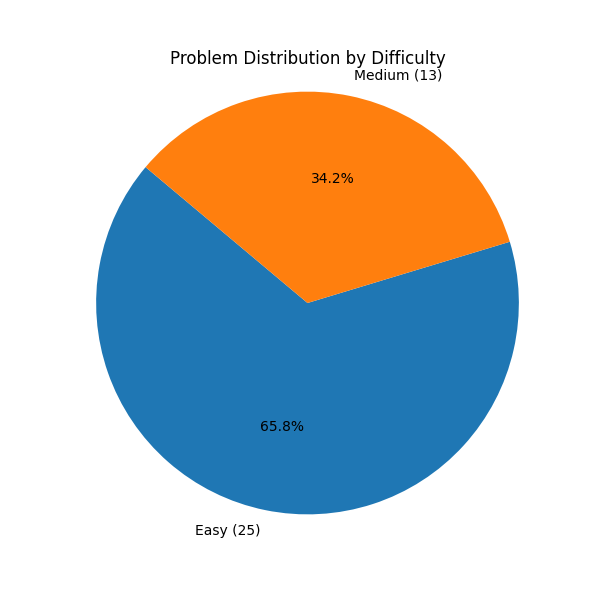
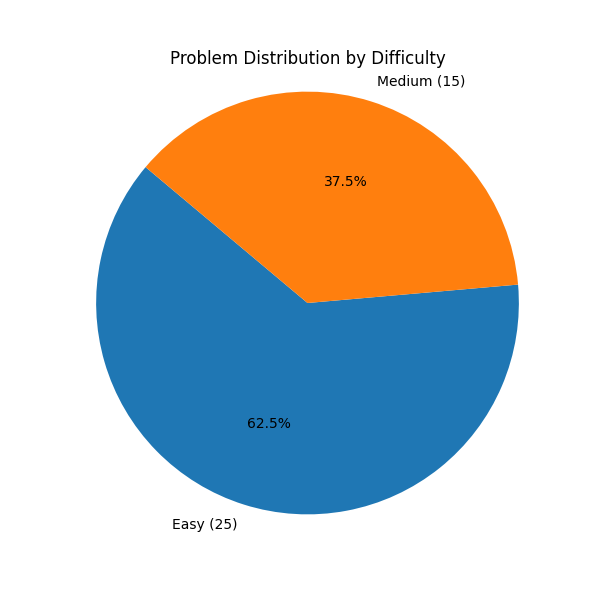
Maximum-subarray

diff --git a/medium/53-maximum-subarray/solution/Solution.java b/medium/53-maximum-subarray/solution/Solution.java
@@ -1,0 +1,25 @@
+class Solution {
+    public int maxSubArray(int[] nums) {
+        // Brute-Force Solution O(N^2);
+        // int maxSum = nums[0];
+
+        // for(int i = 0; i < nums.length; i++){
+        //     int curSum = 0;
+        //     for(int j = i; j < nums.length; j++){
+        //         curSum += nums[j];
+        //         maxSum = Math.max(maxSum, curSum);
+        //     }
+        // }
+        // return maxSum;
+
+        // Kadane's Algorithm O(n)
+        int maxSum = nums[0];
+        int curSum = 0;
+
+        for(int n: nums){
+            curSum = Math.max(curSum , 0) + n;
+            maxSum = Math.max(curSum, maxSum);
+        }
+        return maxSum;
+    }
+}

diff --git a/medium/53-maximum-subarray/solution/solution.py b/medium/53-maximum-subarray/solution/solution.py
@@ -1,0 +1,3 @@
+class Solution:
+    def method_name(self, *args):
+        pass

diff --git a/medium/53-maximum-subarray/README.md b/medium/53-maximum-subarray/README.md
@@ -1,0 +1,98 @@
+# 53. Maximum Subarray
+
+**Difficulty:** Medium  
+**Link:** [https://leetcode.com/problems/maximum-subarray/](https://leetcode.com/problems/maximum-subarray/)
+
+## Problem Description
+
+Given an integer array 
+nums
+, find the 
+subarray
+ with the largest sum, and return 
+its sum
+.
+
+
+ 
+
+
+Example 1:
+
+
+
+
+Input:
+ nums = [-2,1,-3,4,-1,2,1,-5,4]
+
+Output:
+ 6
+
+Explanation:
+ The subarray [4,-1,2,1] has the largest sum 6.
+
+
+
+Example 2:
+
+
+
+
+Input:
+ nums = [1]
+
+Output:
+ 1
+
+Explanation:
+ The subarray [1] has the largest sum 1.
+
+
+
+Example 3:
+
+
+
+
+Input:
+ nums = [5,4,-1,7,8]
+
+Output:
+ 23
+
+Explanation:
+ The subarray [5,4,-1,7,8] has the largest sum 23.
+
+
+
+ 
+
+
+Constraints:
+
+
+
+
+1 <= nums.length <= 10
+5
+
+
+-10
+4
+ <= nums[i] <= 10
+4
+
+
+
+
+ 
+
+
+Follow up:
+ If you have figured out the 
+O(n)
+ solution, try coding another solution using the 
+divide and conquer
+ approach, which is more subtle.
+
+

diff --git a/README.md b/README.md
@@ -25,6 +25,8 @@ My solutions to LeetCode problems in Python and Java
 
 
 
+
+
 ## 📊 Problem Distribution
 ![By Difficulty and Language](assets/progress_difficulty_language.png)
 ![By Difficulty (Pie)](assets/pie_difficulty.png)
